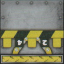
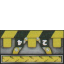
transparent pushers

diff --git a/src/main/java/inf112/skeleton/app/TileGrid.java b/src/main/java/inf112/skeleton/app/TileGrid.java
@@ -150,6 +150,9 @@ public class TileGrid{
             case "R":
                 this.tileGrid[row][column].addObjectOnTile(new RepairStation());
                 break;
+            case "D":
+                orientation = stringToOrientation(nextTileType);
+                this.tileGrid[row][column].addObjectOnTile(new Pusher(orientation));
             case "P":
                 Player newPlayer;
                 orientation = stringToOrientation(nextTileType);

diff --git a/src/main/java/inf112/skeleton/app/gameobjects/Pusher.java b/src/main/java/inf112/skeleton/app/gameobjects/Pusher.java
@@ -25,7 +25,7 @@ public class Pusher implements GameObject {
 
     @Override
     public void evaluateSprite() {
-        Texture texture = new Texture(Gdx.files.internal("./assets/gameObjects/conveyor/pusher.png"));
+        Texture texture = new Texture(Gdx.files.internal("./assets/gameObjects/pusher/pusher24-32x32.png"));
 
         this.sprite = new Sprite(texture);
         switch (orientation) {
